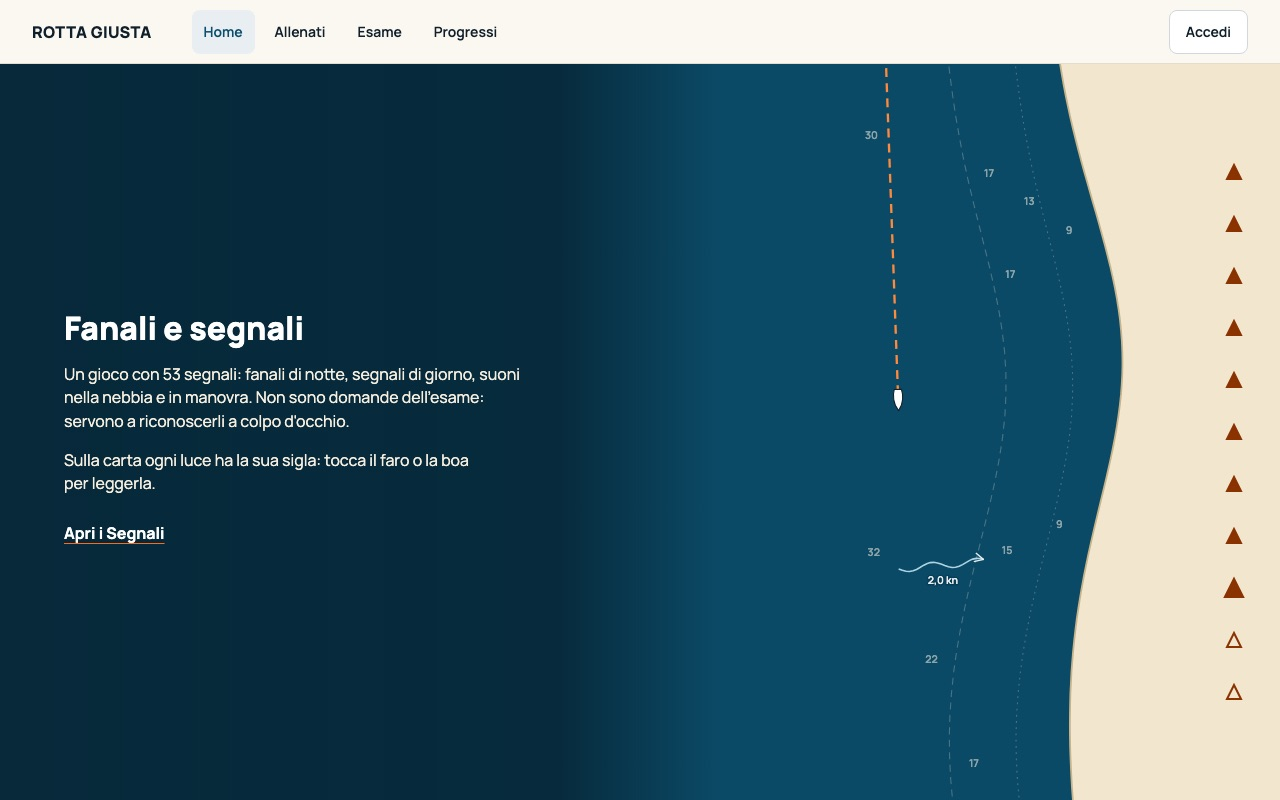
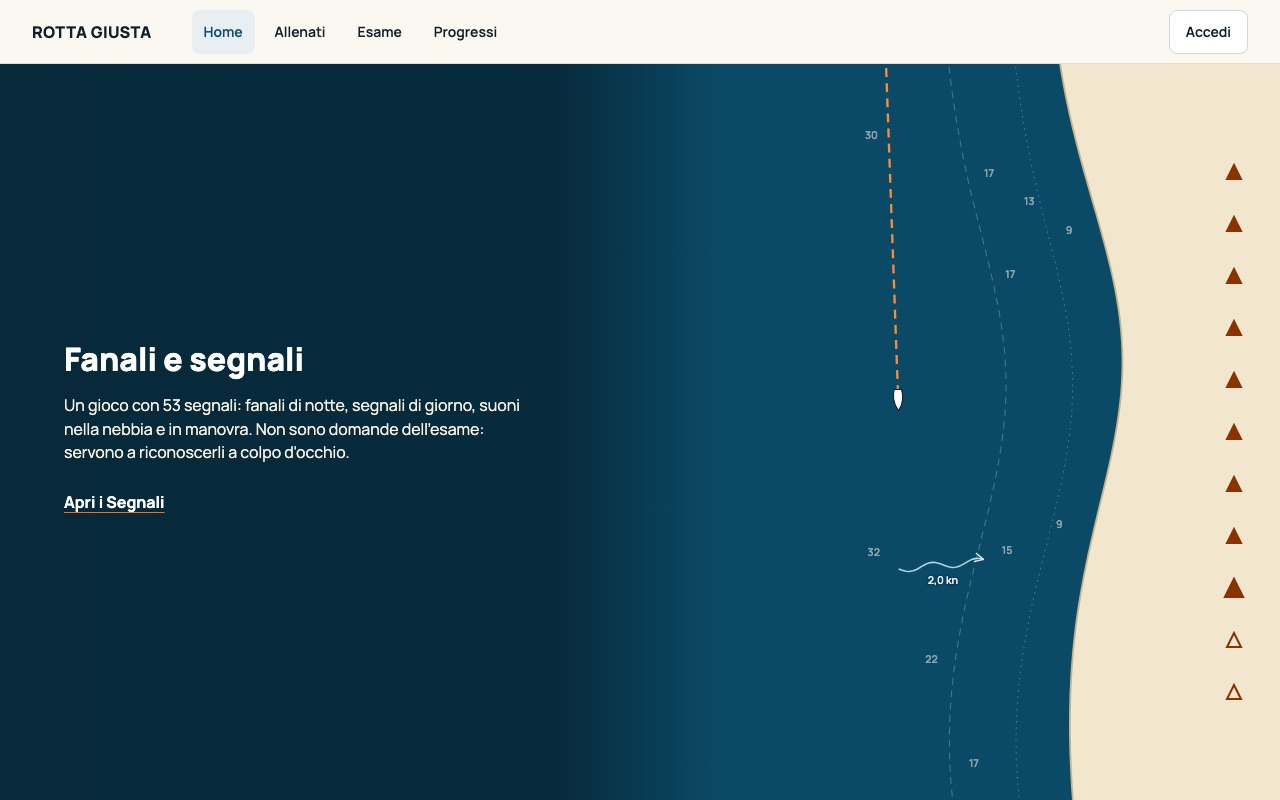
docs(prototipi): i testi dei pannelli dopo la decisione sul faro e D-36
Il pannello dei Segnali non invita più a toccare faro e boa, che lì non ci
sono (decisione dell'autore). Per D-36 il titolo principale diventa «La
patente nautica, un passo alla volta.» (tre righe) e il pannello 5
«L'allenamento che consigliamo»; i titoli dei pannelli passano con
text-wrap: balance, misurato riga per riga a 375x812 e 1280x800.

Changed region(s): [[0.0312, 0.375, 0.4062, 0.6875]]

diff --git a/docs/prototipi/stitch-2026-10/testi-prova/index.html b/docs/prototipi/stitch-2026-10/testi-prova/index.html
@@ -104,6 +104,7 @@ html.ridotto main{scroll-behavior:auto}
 html.ridotto .colonna>*{opacity:1;transform:none;transition:none}
 html.ridotto .lampo-faro,html.ridotto .lampo-boa{animation:none;opacity:.55}
 /* testi-prova: aggiunte di questa copia, per misurare i testi (non una proposta di disegno) */
+main h2,main h3{text-wrap:balance} /* D-36: nessun titolo dei pannelli finisce con una parola sola; l h1 ne fa a meno */
 .secondo{margin-top:24px}
 .secondo h3{font-size:16px;line-height:1.45;margin:0 0 8px;font-weight:700}
 .secondo p{margin:0 0 8px}
@@ -185,7 +186,7 @@ html.s-errore .principale{opacity:.45;pointer-events:none}
 <main id="pannelli">
   <section id="p0" data-titolo="La prova d'esame"><div class="colonna">
     <div class="stato-avviso" data-solo="errore">Le domande non si caricano. Controlla la connessione e ricarica la pagina.</div>
-    <h1>Preparati alla patente nautica, un passo alla volta.</h1>
+    <h1>La patente nautica, un passo alla volta.</h1>
     <p data-solo="h0 errore">Quiz e carteggio per la patente senza limiti dalla costa, a motore e a vela. Gratis.</p>
     <div class="scheda">
       <h2>La prova d'esame dei quiz</h2>
@@ -212,7 +213,7 @@ html.s-errore .principale{opacity:.45;pointer-events:none}
   <section id="p3" data-titolo="Allenamento breve"><div class="colonna"><h2>Un allenamento breve</h2>
     <p>Sono 10 domande del quiz base, prima quelle che non hai mai visto. Dopo ogni risposta vedi se è giusta e qual è quella esatta. Ti fermi quando vuoi.</p>
     <a class="secondario" href="#">Allenati con 10 domande</a></div></section>
-  <section id="p4" data-titolo="Allenamento consigliato"><div class="colonna"><h2>L'allenamento consigliato</h2>
+  <section id="p4" data-titolo="Allenamento consigliato"><div class="colonna"><h2>L'allenamento che consigliamo</h2>
     <p data-non="errore">Sono 25 domande del quiz base. All'inizio sono domande mai viste; quando hai risposto, entrano anche alcune che hai sbagliato. Ogni domanda dice perché è lì.</p>
     <p data-solo="errore">Quante sono, lo diciamo quando le domande si caricano. Ogni domanda dice perché è lì.</p>
     <a class="secondario" href="#">Apri l'allenamento consigliato</a></div></section>
@@ -229,7 +230,6 @@ html.s-errore .principale{opacity:.45;pointer-events:none}
     <a class="secondario" href="#">Apri il Carteggio</a><button class="rivedi" type="button" data-rivedi>Rivedi l'esercizio sulla carta</button></div></section>
   <section id="p8" data-titolo="Fanali e segnali"><div class="colonna"><h2>Fanali e segnali</h2>
     <p>Un gioco con 53 segnali: fanali di notte, segnali di giorno, suoni nella nebbia e in manovra. Non sono domande dell'esame: servono a riconoscerli a colpo d'occhio.</p>
-    <p>Sulla carta ogni luce ha la sua sigla: tocca il faro o la boa per leggerla.</p>
     <a class="secondario" href="#">Apri i Segnali</a></div></section>
   <section id="p9" data-titolo="L'esame, in ordine"><div class="colonna"><h2>L'esame, in ordine</h2>
     <p>In Esame trovi le prove nell'ordine in cui le sostieni: carteggio, quiz base, quiz vela, ognuna con le condizioni dell'esame. Le prepari quando vuoi, anche in un altro ordine.</p>
@@ -552,6 +552,14 @@ window.__carta = { RS, VE, PV, A, B, C };
 <script>
 /* Misura per testi-pannelli.md: dove comincia e finisce il testo di ogni pannello, e se sta fra la testata e la barra. */
 (() => { const p = new URLSearchParams(location.search).get('pannello'); if (p) addEventListener('load', () => document.getElementById(p)?.scrollIntoView()); })();
+/* D-36: le righe di ogni titolo visibile, e quante parole ha l'ultima. */
+window.__righe = el => { const r = document.createRange(); const parole = [];
+  const w = document.createTreeWalker(el, NodeFilter.SHOW_TEXT); let n;
+  while ((n = w.nextNode())) { const re = /\S+/g; let m; while ((m = re.exec(n.data))) { r.setStart(n, m.index); r.setEnd(n, m.index + m[0].length); const b = r.getBoundingClientRect(); if (b.height) parole.push(Math.round(b.top)); } }
+  const righe = []; for (const t of parole) { const u = righe[righe.length - 1]; if (u && Math.abs(u.t - t) < 4) u.n++; else righe.push({ t, n: 1 }); }
+  return righe.map(x => x.n); };
+window.__titoli = () => [...document.querySelectorAll('main h1, main h2, main h3')].filter(h => getComputedStyle(h).display !== 'none' && h.getBoundingClientRect().height)
+  .map(h => { const p = window.__righe(h); return (h.closest('section').id + ' ' + h.tagName + ' «' + h.textContent.trim() + '» righe ' + p.length + ' [' + p.join(',') + ']' + (p[p.length - 1] < 2 ? ' PAROLA SOLA' : '')); }).join('\n');
 window.__misura = () => { const vis = e => { const cs = getComputedStyle(e); const r = e.getBoundingClientRect(); return cs.display !== 'none' && r.height > 0; };
   const sotto = document.querySelector('.barra-sotto'); const bar = sotto && vis(sotto) ? sotto.getBoundingClientRect().top : innerHeight;
   return innerWidth + 'x' + innerHeight + ' · ' + [...document.querySelectorAll('main section')].map(s => { const sr = s.getBoundingClientRect(); const c = s.querySelector('.colonna');

diff --git a/docs/prototipi/stitch-2026-10/testi-pannelli.md b/docs/prototipi/stitch-2026-10/testi-pannelli.md
@@ -32,6 +32,10 @@ apre su un pannello.
   portano (D-10, D-11), una cosa una volta per schermata (D-08), una sola azione
   piena per schermata (D-12), al più quattro cose da toccare nel primo schermo
   (D-13, R-RIF-22).
+- **D-36, adottata dall'autore il 29 ottobre 2026** (dal parere di taste,
+  `analisi-taste-2026-10-29.md` §9): un titolo non finisce con una parola sola, e
+  il titolo principale della Home al computer sta in tre righe al più. Qui vale
+  per tutti i titoli dei pannelli, alle due misure.
 - **Il glossario scelto qui**, perché la stessa cosa non abbia tre nomi:
   *domanda* (non quesito, non quiz) per la singola domanda; *quiz base* e *quiz
   vela* per le prove; *argomento* (non tema, non voce); *risposta esatta* (non
@@ -71,33 +75,47 @@ telefono vanno rifatte; il testo più corto qui sotto lascia margine.
 
 | Pannello | 375×812 H0 | 1280×800 H0 | 375×812 H1 | 375×812 HA | 375×812 errore | 375×667 H0 |
 |---|---|---|---|---|---|---|
-| 1 · La prova d'esame | 109–695 ✓ | 96–760 ✓ | 76–736 ✓ | 97–707 ✓ | 136–676 ✓ | 37–622 ✗ |
+| 1 · La prova d'esame | 128–676 ✓ | 125–731 ✓ | 95–717 ✓ | 116–688 ✓ | 155–657 ✓ | 56–603 ✗ |
 | 2 · Tutte le domande | 194–618 ✓ | 286–578 ✓ | = | = | 306–506 ✓ | 122–545 ✓ |
 | 3 · La simulazione | 264–548 ✓ | 301–563 ✓ | = | = | 318–494 ✓ | 191–476 ✓ |
 | 4 · Allenamento breve | 309–503 ✓ | 340–524 ✓ | = | = | = | 237–430 ✓ |
-| 5 · Allenamento consigliato | 283–529 ✓ | 340–524 ✓ | = | = | 306–506 ✓ | 211–456 ✓ |
+| 5 · Allenamento consigliato | 283–529 ✓ | 321–543 ✓ | = | = | 306–506 ✓ | 211–456 ✓ |
 | 6 · Un argomento | 278–534 ✓ | 320–544 ✓ | = | = | 301–511 ✓ | 206–461 ✓ |
 | 7 · Gli errori | 309–503 ✓ | 340–524 ✓ | = | = | = | 237–430 ✓ |
 | 8 · Il carteggio | 203–609 ✓ | 305–559 ✓ | = | = | 214–598 ✓ | 130–537 ✓ |
-| 9 · Fanali e segnali | 266–546 ✓ | 309–555 ✓ | = | = | = | 194–473 ✓ |
+| 9 · Fanali e segnali | 298–514 ✓ | 340–524 ✓ | = | = | = | 225–442 ✓ |
 | 10 · L'esame, in ordine | 255–557 ✓ | 309–555 ✓ | = | = | = | 182–485 ✓ |
 | 11 · Con l'account | 305–491 ✓ | 343–505 ✓ | = | 298–514 ✓ | = | 233–418 ✓ |
 
-Al computer negli altri stati: H1 111–753 ✓, HA 84–772 ✓, errore 144–720 ✓.
+Al computer negli altri stati: H1 140–724 ✓, HA 113–743 ✓, errore 174–690 ✓.
 Nessuno sbordamento orizzontale (larghezza del documento uguale alla finestra) a
 375 e a 1280.
 
 **A 375×667** (un telefono piccolo, o uno grande con la barra di Safari: le
 regole D-01 lo misurano) entrano i pannelli 2–11 in tutti gli stati; il primo
-**no**, in nessuno stato: 585 px di testo su 539. Con il titolo e il sottotitolo
-corti della decisione 2 (§5) entra H0 (67–592); H1 e HA no (23–644, 44–615).
+**no**, salvo con le domande che non si caricano (82–585): senza risposte manca
+per 8 px (56–603), con risposte e con l'account non entra (23–644, 44–615). Con
+il sottotitolo corto della decisione 2 (§5) entra anche H0.
 Il compito chiedeva 375×812 e 1280×800, che passano; 375×667 è detto perché è
 il limite vero.
 
 **La leggibilità**, sul testo che si vede in H0, con la formula di D-06: fra 64
-e 82 in tutti i pannelli (il più basso è «Un argomento alla volta», 64, per i
+e 87 in tutti i pannelli (un calcolo approssimato, sul testo estratto) (il più basso è «Un argomento alla volta», 64, per i
 nomi degli argomenti); nessuna frase oltre le 24 parole. Negli stati d'errore i
 testi sono di una o due frasi corte, dove l'indice dice poco.
+
+**D-36, misurata** con le righe vere di ogni titolo (`__titoli()` nella copia,
+che conta le parole riga per riga con un Range): nessun titolo finisce con una
+parola sola, a 375×812 e a 1280×800, nei quattro stati; il titolo principale
+sta in tre righe anche a 1920×1080. Per i titoli dei pannelli serve
+`text-wrap: balance` (nella copia c'è, sui soli h2 e h3): senza, cinque titoli
+lasciano l'ultima parola da sola — «La simulazione, come all'esame» alle due
+misure, «Con l'account, le risposte restano» a 1280, «Tutte le domande
+dell'esame» e «Il carteggio, sulla carta vera» a 375. Il bilanciamento non
+serve al titolo principale, che anzi peggiora («nautica, un / passo alla
+volta»), e non salva un titolo di due parole che va a capo: è il caso di
+«L'allenamento consigliato» al telefono, cambiato (pannello 5). Il CSS è di
+P-100 e P-102; `text-wrap: balance` c'è in Chrome e in Safari dalla 17.5.
 
 ## 2. Gli 11 pannelli
 
@@ -111,7 +129,7 @@ H0 (la Home senza risposte e senza account); gli altri stati sono nel §3.
 **Ruolo.** Dire che cos'è il sito e far partire la prova in un tocco (§7.1, H0).
 **Nel percorso:** «La prova d'esame».
 
-- **Titolo (h1):** Preparati alla patente nautica, un passo alla volta.
+- **Titolo (h1):** La patente nautica, un passo alla volta.
 - **Sottotitolo:** Quiz e carteggio per la patente senza limiti dalla costa, a
   motore e a vela. Gratis.
 - **Scheda:** *La prova d'esame dei quiz* — **20** domande · **30** minuti ·
@@ -124,8 +142,10 @@ H0 (la Home senza risposte e senza account); gli altri stati sono nel §3.
 del link: `preparaBreve().quanti` (che è 10 finché il quiz base ha almeno dieci
 domande; il nome resta «Allenati con 10 domande» come deciso).
 
-**Perché.** Il titolo è quello della Home pubblicata e non promette niente che
-non si misuri. Il sottotitolo aggiunge «a motore e a vela» e «Gratis»: nella
+**Perché.** «Preparati alla patente nautica, un passo alla volta.», il titolo
+della Home pubblicata, al computer va su quattro righe con «volta.» da sola: non
+passa D-36. Senza «Preparati» sta in tre righe, «La patente / nautica, un passo
+/ alla volta.», al computer e al telefono, e dice la stessa cosa. Il sottotitolo aggiunge «a motore e a vela» e «Gratis»: nella
 lettura da fuori del 20 ottobre (I-23) due lettori su cinque hanno creduto che
 il sito fosse per la patente entro 12 miglia, e «Gratis» è stato capito da
 tutti e cinque. **«30» e non «30′»**: con «minuti» sotto, l'apice dice la
@@ -136,9 +156,11 @@ pulsante, il link, il faro e la boa le cose da toccare sono quattro, il limite
 di D-13.
 
 **Alternative.**
-- Titolo più corto, «La patente nautica, un passo alla volta.», con il
-  sottotitolo «Quiz e carteggio per la patente senza limiti dalla costa.
-  Gratis.»: misurato, fa entrare il pannello anche a 375×667 (decisione 2).
+- «La patente nautica, passo dopo passo.»: tre righe da due parole, anche lei
+  dentro D-36.
+- Il sottotitolo corto, «Quiz e carteggio per la patente senza limiti dalla
+  costa. Gratis.»: misurato, fa entrare il pannello anche a 375×667, ma perde «a
+  motore e a vela» (decisione 2).
 - «Simula il quiz» al posto di «Simula il quiz base»: l'autore gli ha detto sì
   il 20 ottobre (I-23, decisione 2), ma non è mai entrato nella pagina, e i
   controlli leggono «Simula il quiz base». Consiglio di tenere «base»: la vela ha
@@ -236,7 +258,7 @@ vuoi» è vero: «Termina» apre il riepilogo delle risposte date.
 **Ruolo.** L'allenamento consigliato. **Nel percorso:** «Allenamento
 consigliato».
 
-- **Titolo:** L'allenamento consigliato
+- **Titolo:** L'allenamento che consigliamo
 - **Testo:** Sono **25** domande del quiz base. All'inizio sono domande mai
   viste; quando hai risposto, entrano anche alcune che hai sbagliato. Ogni
   domanda dice perché è lì.
@@ -246,7 +268,13 @@ consigliato».
 apre la preparazione (misurato: 25 con la pagina vuota). Non «fino a 25»: il
 numero è quello della lista, e quando la lista è più corta il numero scende.
 
-**Perché.** È il difetto noto della Home pubblicata: «scelti dalle tue risposte»
+**Perché del titolo.** «L'allenamento consigliato», il nome dell'attività, al
+telefono va a capo e lascia «consigliato» da solo: due parole che vanno a capo
+non si bilanciano (D-36). «L'allenamento che consigliamo» va su due righe con
+due parole in fondo, e dice la stessa cosa; il pulsante tiene il nome,
+«Apri l'allenamento consigliato».
+
+**Perché del testo.** È il difetto noto della Home pubblicata: «scelti dalle tue risposte»
 detto anche a chi non ha risposto. Il motore, senza risposte, sceglie solo
 domande mai viste, pesate su quanto rendono all'esame; con le risposte aggiunge
 i richiami degli errori (al più un quinto) e le conferme. Il testo dice le due
@@ -341,8 +369,6 @@ esercizio.
 - **Testo:** Un gioco con **53** segnali: fanali di notte, segnali di giorno,
   suoni nella nebbia e in manovra. Non sono domande dell'esame: servono a
   riconoscerli a colpo d'occhio.
-- **Testo:** Sulla carta ogni luce ha la sua sigla: tocca il faro o la boa per
-  leggerla.
 - **Azione:** link **Apri i Segnali**.
 
 **Fonti.** 53: `E.SEGNALI.length` (27 fanali, 9 diurni, 9 nebbia, 8 manovra:
@@ -353,12 +379,13 @@ gioco nostro e non domande d'esame: la specifica vuole che lo dichiari. Non si
 scrivono i conti per famiglia: il 27 è proprio il numero sbagliato della U
 («27 fanali e segnali»).
 
-**Un difetto del prototipo, guardato:** sul pannello 9 **il faro e la boa non
-ci sono**. Stanno sul primo tratto di costa, e la carta scorre di un pannello
-alla volta: la seconda frase invita a toccare una cosa che non si vede
-(fotografia `h0-p8-1280x800.jpg`). Due strade: P-100 mette una luce con la sua
-sigla sul tratto di costa del pannello 9; oppure la frase esce e il pannello
-dice solo i Segnali. Consiglio la prima (decisione 6).
+**Il faro e la boa, decisi dall'autore il 29 ottobre 2026.** Il prototipo
+diceva anche «Sulla carta ogni luce ha la sua sigla: tocca il faro o la boa per
+leggerla», ma sul pannello 9 il faro e la boa non ci sono: stanno sul primo
+tratto di costa, e la carta scorre di un pannello alla volta (guardato in una
+fotografia a 1280×800; l'ha trovato anche il parere di taste, §5). L'autore ha deciso: «non mettere faro e boa, si cambia testo». La frase
+esce, e il pannello dice solo i Segnali. Le luci restano toccabili nel primo
+pannello, dove si vedono; la loro sigla la dice la scheda che si apre.
 
 ### Pannello 10 — L'esame, in ordine
 
@@ -535,11 +562,13 @@ piccole perché la scheda le dice in testo.
 1. **Il secondo pannello: «Tutte le domande dell'esame», con i limiti, al
    posto di «Come funziona».** *Raccomandazione:* sì. I limiti sono la cosa che
    ci distingue, e «Come funziona» spiegava i triangoli.
-2. **Il titolo principale.** Tenere «Preparati alla patente nautica, un passo
-   alla volta.» (entra a 375×812 e a 1280×800), o «La patente nautica, un passo
-   alla volta.» con il sottotitolo corto, che entra anche a 375×667.
-   *Raccomandazione:* il corto, se i telefoni piccoli contano; altrimenti tenere
-   quello di oggi.
+2. **Il titolo principale e il sottotitolo.** Il titolo di oggi non passa D-36;
+   la proposta è «La patente nautica, un passo alla volta.» (o «La patente
+   nautica, passo dopo passo.»). Il sottotitolo: «…senza limiti dalla costa, a
+   motore e a vela. Gratis.», o il corto «…senza limiti dalla costa. Gratis.»,
+   che fa entrare il primo pannello anche a 375×667. *Raccomandazione:* il
+   titolo proposto e il sottotitolo lungo; il corto se i telefoni piccoli
+   contano di più di «a motore e a vela».
 3. **«Simula il quiz base» o «Simula il quiz».** *Raccomandazione:* «Simula il
    quiz base», com'è nella pagina e nei controlli.
 4. **Dove sta l'invito con risposte senza account.** (a) Nel primo pannello,
@@ -551,9 +580,8 @@ piccole perché la scheda le dice in testo.
 5. **Il testo dell'invito**, se resta nel primo pannello: quello accorciato del
    §3 al posto dei due paragrafi decisi nel ridisegno. *Raccomandazione:* sì;
    dice le stesse cose in una frase in meno.
-6. **Il faro e la boa sul pannello dei Segnali.** P-100 porta una luce sul tratto
-   di costa del pannello 9, o la frase «tocca il faro o la boa» esce.
-   *Raccomandazione:* la luce.
+6. ~~Il faro e la boa sul pannello dei Segnali.~~ *Deciso dall'autore il 29
+   ottobre 2026: si cambia testo, faro e boa restano nel primo pannello.*
 7. **Le carte nel pannello del carteggio** («sulle carte 5/D e 42/D»).
    *Raccomandazione:* tenerle.
 8. **«Ferma il movimento» o «Ferma le luci».** *Raccomandazione:* «Ferma il
@@ -587,6 +615,15 @@ Nessun controllo è stato toccato.
 - **HA: i motivi dell'allenamento consigliato** («3 da rifare, 22 mai viste») si
   contano dai `perche` della lista. Meglio un conto esportato dal motore, se si
   vuole tenere la regola «chi disegna non ricalcola» alla lettera.
+- **D-36** (adottata il 29 ottobre): i titoli dei pannelli passano solo con
+  `text-wrap: balance` sugli h2; il titolo principale passa senza. Il suo
+  controllo, in T-13, è da scrivere; `__titoli()` della copia fa la stessa misura.
+- **I titoli cambiati per D-36**: il titolo principale («La patente nautica, un
+  passo alla volta.») e quello del pannello 5 («L'allenamento che
+  consigliamo»). Se un controllo cerca «Preparati alla patente nautica», va
+  allineato.
+- **Il pannello 9** non dice più «tocca il faro o la boa» (decisione
+  dell'autore, 29 ottobre).
 - **Il punto delle migliaia**: `toLocaleString('it-IT')` scrive «1722»; serve una
   funzione che metta sempre il punto.
 - **Il nome dei triangoli** (il nome accessibile dei link del percorso): La prova

diff --git a/CHANGELOG.md b/CHANGELOG.md
@@ -91,6 +91,18 @@ dell'autore. Dalla 0.19.0 in poi è la storia di questo sito.
   della coda toccato; nessuna suite rifatta, perché nessun file che le suite
   leggono è cambiato. Le note per la regia (che cosa leggono i controlli di
   P-101) sono nel §6 del documento.
+- **Dopo il parere di taste, lo stesso giorno.** L'autore ha deciso che il
+  pannello dei Segnali cambia testo invece di avere un faro e una boa suoi: la
+  frase «tocca il faro o la boa» esce. Ed è stata adottata D-36 — un titolo non
+  finisce con una parola sola, il titolo principale della Home al computer sta
+  in tre righe —: «Preparati alla patente nautica, un passo alla volta.» andava
+  su quattro righe con «volta.» da sola, e diventa «La patente nautica, un passo
+  alla volta.»; «L'allenamento consigliato» al telefono lasciava «consigliato»
+  da solo, e il titolo del pannello diventa «L'allenamento che consigliamo».
+  Misurato con le righe vere di ogni titolo: con `text-wrap: balance` sui titoli
+  dei pannelli nessuno finisce con una parola sola, a 375×812 e a 1280×800, nei
+  quattro stati; senza, cinque sì. Tutti i pannelli entrano ancora alle due
+  misure.
 
 ## [0.35.0] — 2026-10-28
 
